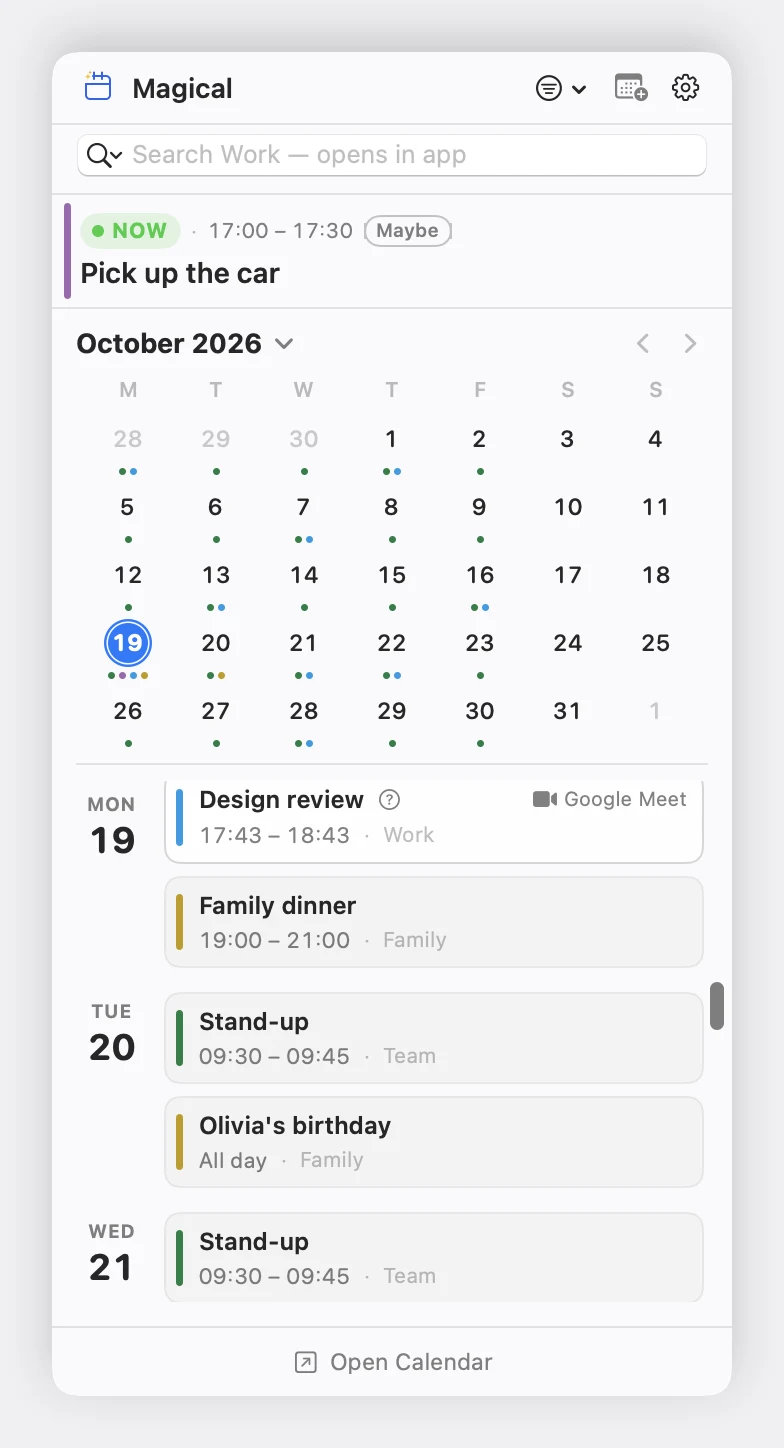
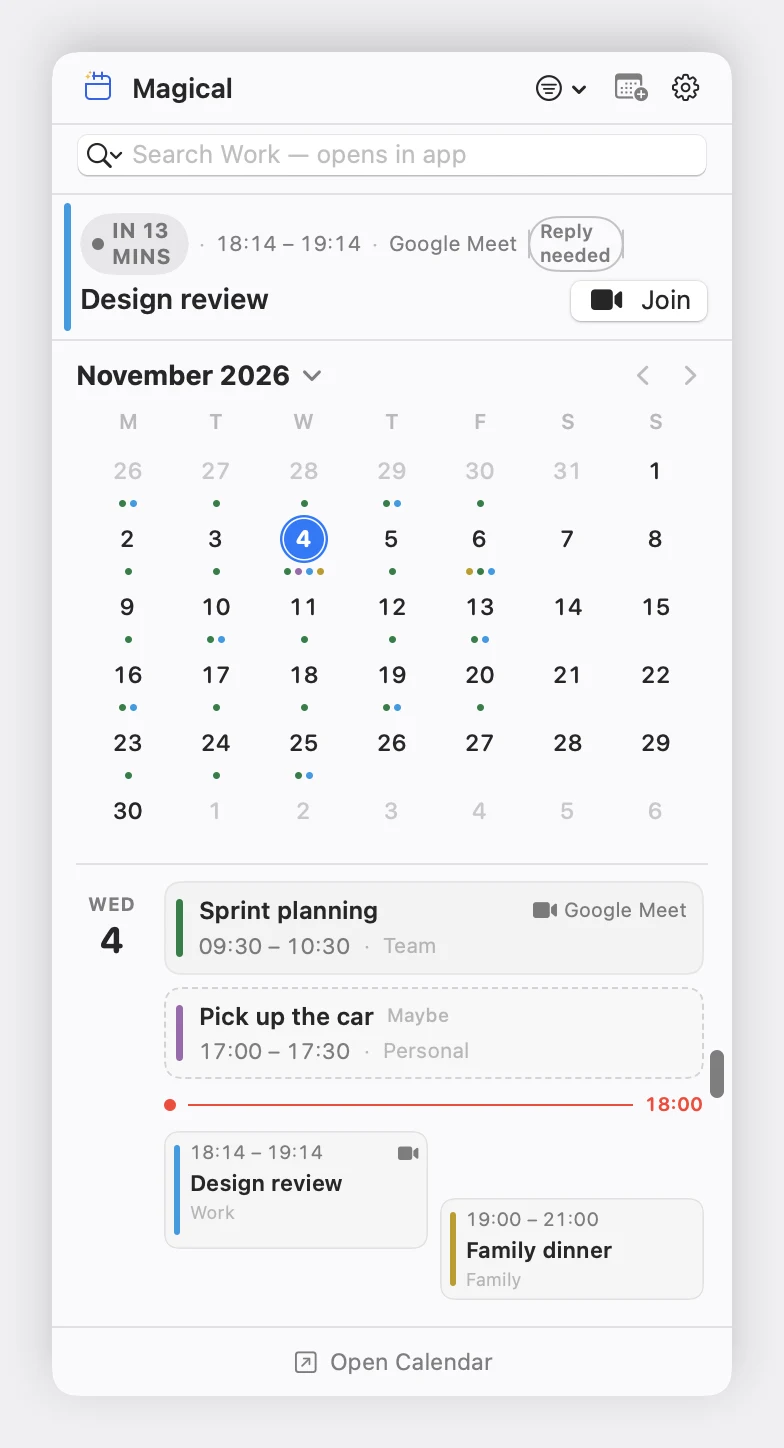
docs(website): redraw the sidebar shots at its real size
The generator still rendered a 254pt card and set the view mode without a
timeframe, so the Month shot was the unbounded feed and no shot showed a
task. Render at the 324pt card, pass the timeframe so Month is the
bounded month, and add a timed task fixture so the task circle appears
where it now does in the app.

The landing page's image sizes follow the new 376pt-wide assets.

diff --git a/tools/shots/Sources/shots/main.swift b/tools/shots/Sources/shots/main.swift
@@ -507,6 +507,22 @@ let magimailTrayParams: [String: Any] = [
     "isOffline": false,
 ]
 
+let sidebarTaskStart = Calendar.current.date(bySettingHour: 15, minute: 0, second: 0, of: now) ?? now
+let magicalSidebarTask: [String: Any] = [
+    "id": "sb-task-1",
+    "accountId": "work",
+    "calendarIds": ["tasks@tasks.google.com"],
+    "calendarName": "Tasks",
+    "summary": "Send quarterly report",
+    "startTime": sidebarTaskStart.timeIntervalSince1970 * 1000,
+    "endTime": sidebarTaskStart.addingTimeInterval(3600).timeIntervalSince1970 * 1000,
+    "isAllDay": false,
+    "colorHex": Fixtures.calendarWork,
+    "myResponseStatus": 1,
+    "eventType": 9,
+    "isCompleted": false,
+]
+
 let magicalSidebarTrayPayload: [String: Any] = [
     "accounts": [
         ["id": "personal", "name": "Personal", "color": Fixtures.calendarPersonal,
@@ -564,7 +580,7 @@ let magicalSidebarTrayPayload: [String: Any] = [
             raw["conferenceUrl"] = conference
         }
         return raw
-    },
+    } + [magicalSidebarTask],
     "activeAccountId": "work",
     "isCalendarCollapsed": false,
     "isOffline": false,
@@ -822,10 +838,13 @@ MainActor.assumeIsolated {
 
     // 7. Magical companion sidebar (Week, Month, Day views)
     @MainActor
-    func makeSidebarShot(mode: MagicalHelperLib.SidebarViewMode) -> some View {
+    func makeSidebarShot(
+        mode: MagicalHelperLib.SidebarViewMode,
+        timeframe: String
+    ) -> some View {
         let model = MagicalHelperLib.SidebarModel()
         model.trayModel.update(from: magicalSidebarTrayPayload)
-        model.setViewMode(mode, anchor: now)
+        model.setViewMode(mode, anchor: now, timeframe: timeframe)
         model.setScrollPosition(
             hour: 8.5,
             hourHeight: 48.0,
@@ -835,7 +854,7 @@ MainActor.assumeIsolated {
         )
 
         return MagicalHelperLib.SidebarRootView(model: model)
-            .frame(width: 254, height: 600)
+            .frame(width: 324, height: 600)
             .background(Color(red: 0.98, green: 0.98, blue: 0.99))
             .clipShape(RoundedRectangle(cornerRadius: 10))
             .overlay(
@@ -848,9 +867,9 @@ MainActor.assumeIsolated {
             .environment(\.colorScheme, .light)
     }
 
-    let sidebarShotSize = CGSize(width: 254 + 52, height: 600 + 52)
-    write("shot-sidebar-week-magical", makeSidebarShot(mode: .week), size: sidebarShotSize)
-    write("shot-sidebar-magical", makeSidebarShot(mode: .week), size: sidebarShotSize)
-    write("shot-sidebar-month-magical", makeSidebarShot(mode: .fantastical), size: sidebarShotSize)
-    write("shot-sidebar-day-magical", makeSidebarShot(mode: .day), size: sidebarShotSize)
+    let sidebarShotSize = CGSize(width: 324 + 52, height: 600 + 52)
+    write("shot-sidebar-week-magical", makeSidebarShot(mode: .week, timeframe: "week"), size: sidebarShotSize)
+    write("shot-sidebar-magical", makeSidebarShot(mode: .week, timeframe: "week"), size: sidebarShotSize)
+    write("shot-sidebar-month-magical", makeSidebarShot(mode: .fantastical, timeframe: "month"), size: sidebarShotSize)
+    write("shot-sidebar-day-magical", makeSidebarShot(mode: .day, timeframe: "day"), size: sidebarShotSize)
 }
